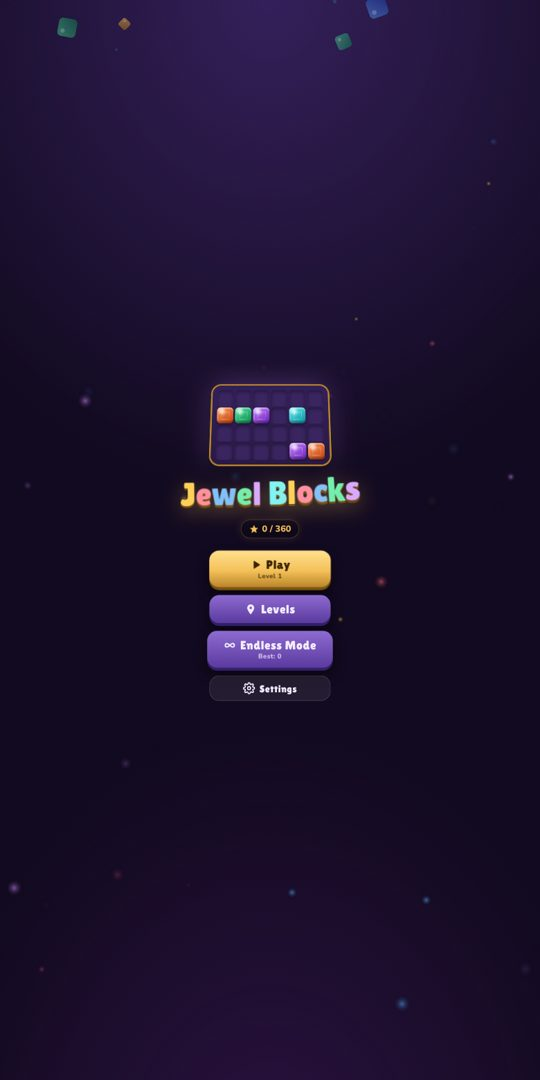
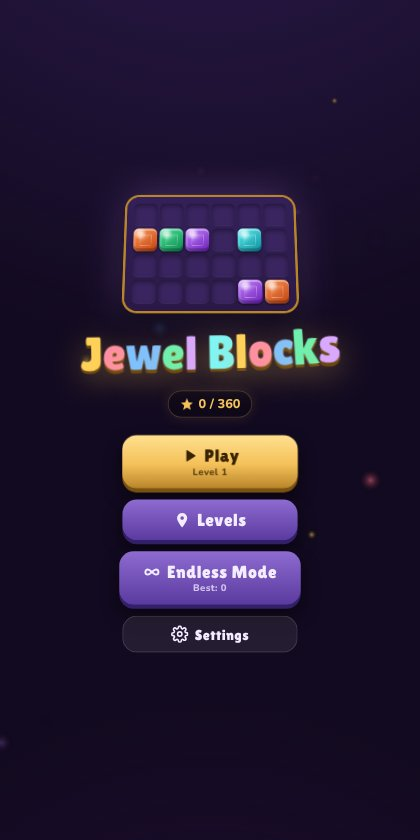
Fix game pages on mobile: fit screenshots and facts to the screen, sharper Jewel Blocks screenshots, refresh cached CSS
Claude-Session: https://claude.ai/code/session_01CKnPsB1tMt7EAphczr5JcN

diff --git a/style.css b/style.css
@@ -118,12 +118,17 @@ h1, h2, h3 { font-family: var(--font-display); line-height: 1.1; text-wrap: bala
 .site-footer nav { display: flex; gap: 18px; flex-wrap: wrap; }
 
 /* Screenshot strip */
-.shots { display: grid; grid-template-columns: repeat(4, minmax(0, 220px)); gap: 16px; padding: 28px 0 8px; }
+.shots { display: grid; grid-auto-flow: column; grid-auto-columns: minmax(0, 220px); justify-content: start; gap: 16px; padding: 28px 0 8px; }
 .shots img { width: 100%; aspect-ratio: 1 / 2; object-fit: cover; border-radius: 22px; box-shadow: 0 10px 26px rgba(40, 20, 60, .18); }
-.shots.wide { grid-template-columns: repeat(3, minmax(0, 1fr)); }
+.shots.wide { grid-auto-columns: minmax(0, 1fr); justify-content: stretch; }
 .shots.wide img { aspect-ratio: 16 / 9; border-radius: 18px; }
 .shots.phone img { aspect-ratio: 9 / 16; }
 @media (max-width: 640px) {
-  .shots { grid-template-columns: repeat(2, minmax(0, 1fr)); gap: 12px; }
-  .shots.wide { grid-template-columns: 1fr; }
+  .shots { grid-auto-columns: minmax(0, 1fr); justify-content: stretch; gap: 10px; }
+  .shots img { border-radius: 14px; }
+  .shots:has(> :nth-child(4)) { grid-auto-flow: row; grid-template-columns: repeat(2, minmax(0, 1fr)); }
+  .shots.wide { grid-auto-flow: row; grid-template-columns: 1fr; }
+  .facts { grid-template-columns: repeat(2, minmax(0, 1fr)); gap: 10px; }
+  .fact { padding: 14px 16px; font-size: .92rem; line-height: 1.35; }
+  .fact b { font-size: 1.5rem; }
 }

diff --git a/games/jewel-blocks/index.html b/games/jewel-blocks/index.html
@@ -7,7 +7,7 @@
 <meta name="description" content="A jewel block puzzle: drag pieces onto an 8×8 board and burst full rows and columns. 120 levels in 6 worlds.">
 <link rel="icon" href="../../icon-192.png">
 <link rel="stylesheet" href="https://fonts.googleapis.com/css2?family=Baloo+2:wght@800&family=Nunito:wght@600;800&display=swap">
-<link rel="stylesheet" href="../../style.css">
+<link rel="stylesheet" href="../../style.css?v=2">
 </head>
 <body>
 <header class="site-header">
@@ -37,9 +37,9 @@
       <div class="fact"><b>Offline</b>play anywhere</div>
     </div>
     <div class="shots">
-      <img src="screenshot-1.jpg" alt="Jewel Blocks main menu" loading="lazy">
-      <img src="screenshot-2.jpg" alt="Jewel Blocks level with a score goal" loading="lazy">
-      <img src="screenshot-3.jpg" alt="Jewel Blocks level map" loading="lazy">
+      <img src="screenshot-1.jpg?v=2" alt="Jewel Blocks main menu" loading="lazy">
+      <img src="screenshot-2.jpg?v=2" alt="Jewel Blocks level with a score goal" loading="lazy">
+      <img src="screenshot-3.jpg?v=2" alt="Jewel Blocks level map" loading="lazy">
     </div>
     <div class="prose">
       <h2>How to play</h2>

diff --git a/games/gem-garden/index.html b/games/gem-garden/index.html
@@ -7,7 +7,7 @@
 <meta name="description" content="A match-3 puzzle game: match precious stones, melt the ice and make the garden shine. 500 levels in 25 zones.">
 <link rel="icon" href="../../icon-192.png">
 <link rel="stylesheet" href="https://fonts.googleapis.com/css2?family=Baloo+2:wght@800&family=Nunito:wght@600;800&display=swap">
-<link rel="stylesheet" href="../../style.css">
+<link rel="stylesheet" href="../../style.css?v=2">
 </head>
 <body>
 <header class="site-header">

diff --git a/games/neon-otoban/index.html b/games/neon-otoban/index.html
@@ -7,7 +7,7 @@
 <meta name="description" content="A 3D arcade highway racer. Weave through traffic, fire your nitro and drift through city, desert and coast.">
 <link rel="icon" href="../../icon-192.png">
 <link rel="stylesheet" href="https://fonts.googleapis.com/css2?family=Baloo+2:wght@800&family=Nunito:wght@600;800&display=swap">
-<link rel="stylesheet" href="../../style.css">
+<link rel="stylesheet" href="../../style.css?v=2">
 </head>
 <body>
 <header class="site-header">

diff --git a/games/neon-ray-runner/index.html b/games/neon-ray-runner/index.html
@@ -7,7 +7,7 @@
 <meta name="description" content="An endless runner on the city rails at sunset. Dodge trains, jump barriers and collect coins.">
 <link rel="icon" href="../../icon-192.png">
 <link rel="stylesheet" href="https://fonts.googleapis.com/css2?family=Baloo+2:wght@800&family=Nunito:wght@600;800&display=swap">
-<link rel="stylesheet" href="../../style.css">
+<link rel="stylesheet" href="../../style.css?v=2">
 </head>
 <body>
 <header class="site-header">

diff --git a/games/bus-depot-puzzle/index.html b/games/bus-depot-puzzle/index.html
@@ -7,7 +7,7 @@
 <meta name="description" content="Clear the jammed bus depot and match passengers to buses of their color. 450 levels.">
 <link rel="icon" href="../../icon-192.png">
 <link rel="stylesheet" href="https://fonts.googleapis.com/css2?family=Baloo+2:wght@800&family=Nunito:wght@600;800&display=swap">
-<link rel="stylesheet" href="../../style.css">
+<link rel="stylesheet" href="../../style.css?v=2">
 </head>
 <body>
 <header class="site-header">

diff --git a/games/timber-gates/index.html b/games/timber-gates/index.html
@@ -7,7 +7,7 @@
 <meta name="description" content="Slide wooden blocks out through matching gates. 500 color puzzles.">
 <link rel="icon" href="../../icon-192.png">
 <link rel="stylesheet" href="https://fonts.googleapis.com/css2?family=Baloo+2:wght@800&family=Nunito:wght@600;800&display=swap">
-<link rel="stylesheet" href="../../style.css">
+<link rel="stylesheet" href="../../style.css?v=2">
 </head>
 <body>
 <header class="site-header">

diff --git a/index.html b/index.html
@@ -7,7 +7,7 @@
 <meta name="description" content="Linada Games makes colorful, relaxing puzzle games for mobile and the web.">
 <link rel="icon" href="icon-192.png">
 <link rel="stylesheet" href="https://fonts.googleapis.com/css2?family=Baloo+2:wght@800&family=Nunito:wght@600;800&display=swap">
-<link rel="stylesheet" href="style.css">
+<link rel="stylesheet" href="style.css?v=2">
 </head>
 <body>
 <header class="site-header">

diff --git a/games/index.html b/games/index.html
@@ -7,7 +7,7 @@
 <meta name="description" content="All games by Linada Games, with Google Play and App Store links.">
 <link rel="icon" href="../icon-192.png">
 <link rel="stylesheet" href="https://fonts.googleapis.com/css2?family=Baloo+2:wght@800&family=Nunito:wght@600;800&display=swap">
-<link rel="stylesheet" href="../style.css">
+<link rel="stylesheet" href="../style.css?v=2">
 </head>
 <body>
 <header class="site-header">

diff --git a/games/bus-depot-puzzle/privacy.html b/games/bus-depot-puzzle/privacy.html
@@ -7,7 +7,7 @@
 <meta name="description" content="Privacy policy for Linada Games apps.">
 <link rel="icon" href="../../icon-192.png">
 <link rel="stylesheet" href="https://fonts.googleapis.com/css2?family=Baloo+2:wght@800&family=Nunito:wght@600;800&display=swap">
-<link rel="stylesheet" href="../../style.css">
+<link rel="stylesheet" href="../../style.css?v=2">
 </head>
 <body>
 <header class="site-header">

diff --git a/games/gem-garden/privacy.html b/games/gem-garden/privacy.html
@@ -7,7 +7,7 @@
 <meta name="description" content="Privacy policy for Linada Games apps.">
 <link rel="icon" href="../../icon-192.png">
 <link rel="stylesheet" href="https://fonts.googleapis.com/css2?family=Baloo+2:wght@800&family=Nunito:wght@600;800&display=swap">
-<link rel="stylesheet" href="../../style.css">
+<link rel="stylesheet" href="../../style.css?v=2">
 </head>
 <body>
 <header class="site-header">

diff --git a/games/jewel-blocks/privacy.html b/games/jewel-blocks/privacy.html
@@ -7,7 +7,7 @@
 <meta name="description" content="Privacy policy for Linada Games apps.">
 <link rel="icon" href="../../icon-192.png">
 <link rel="stylesheet" href="https://fonts.googleapis.com/css2?family=Baloo+2:wght@800&family=Nunito:wght@600;800&display=swap">
-<link rel="stylesheet" href="../../style.css">
+<link rel="stylesheet" href="../../style.css?v=2">
 </head>
 <body>
 <header class="site-header">
